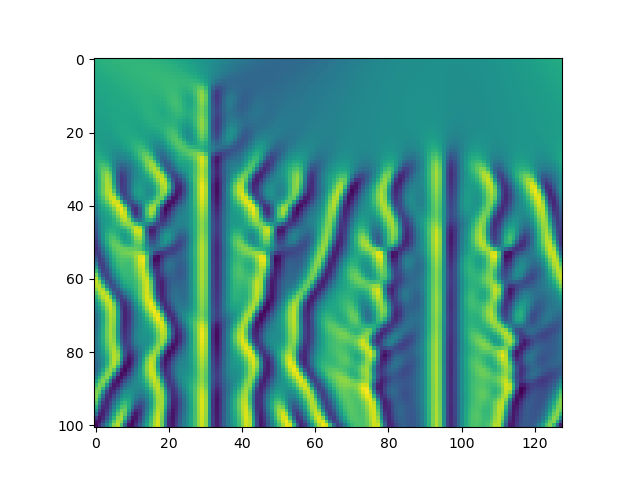
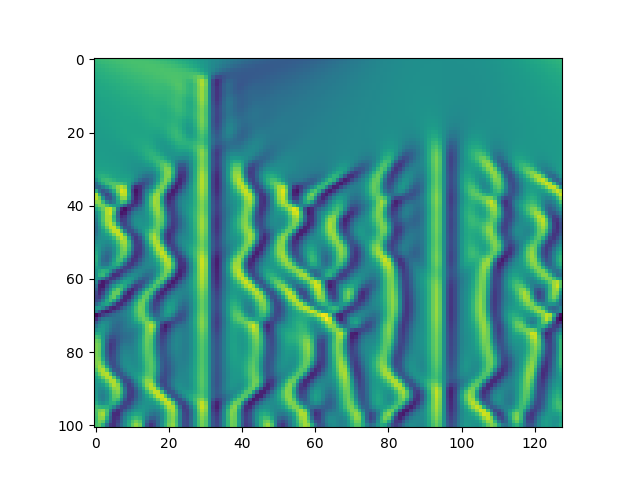
fix r

Changed region(s): [[0.125, 0.25, 0.875, 0.9062], [0.25, 0.125, 0.375, 0.1875], [0.0938, 0.25, 0.125, 0.2812]]

diff --git a/ks_torch.py b/ks_torch.py
@@ -15,7 +15,7 @@ L = k**2 - k**4
 E = (h*L).exp()
 E2 = (h*L/2).exp()
 M = 16
-r = (1j*th.pi*(th.arange(1,M+1)-.5)/M)
+r = th.exp(1j*th.pi*(th.arange(1,M+1)-.5)/M)
 LR = h*L[:,None].repeat_interleave(M,1) + r[None,:].repeat_interleave(N,0)
 Q = h*(((LR/2).exp()-1)/LR).mean(dim=1).real
 f1 = h*((-4-LR+LR.exp()*(4-3*LR+LR**2))/LR**3).mean(dim=1).real

diff --git a/ks_numpy.py b/ks_numpy.py
@@ -15,7 +15,7 @@ L = k**2 - k**4
 E = np.exp(h*L)
 E2 = np.exp(h*L/2)
 M = 16
-r = (1j*np.pi*(np.arange(1,M+1)-.5)/M)
+r = np.exp(1j*np.pi*(np.arange(1,M+1)-.5)/M)
 LR = np.repeat(h*L[:,None],M,1) + np.repeat(r[None,:],N,0)
 Q = h*np.mean(((np.exp(LR/2)-1)/LR),1).real
 f1 = h*np.mean(((-4-LR+np.exp(LR)*(4-3*LR+LR**2))/LR**3),1).real
